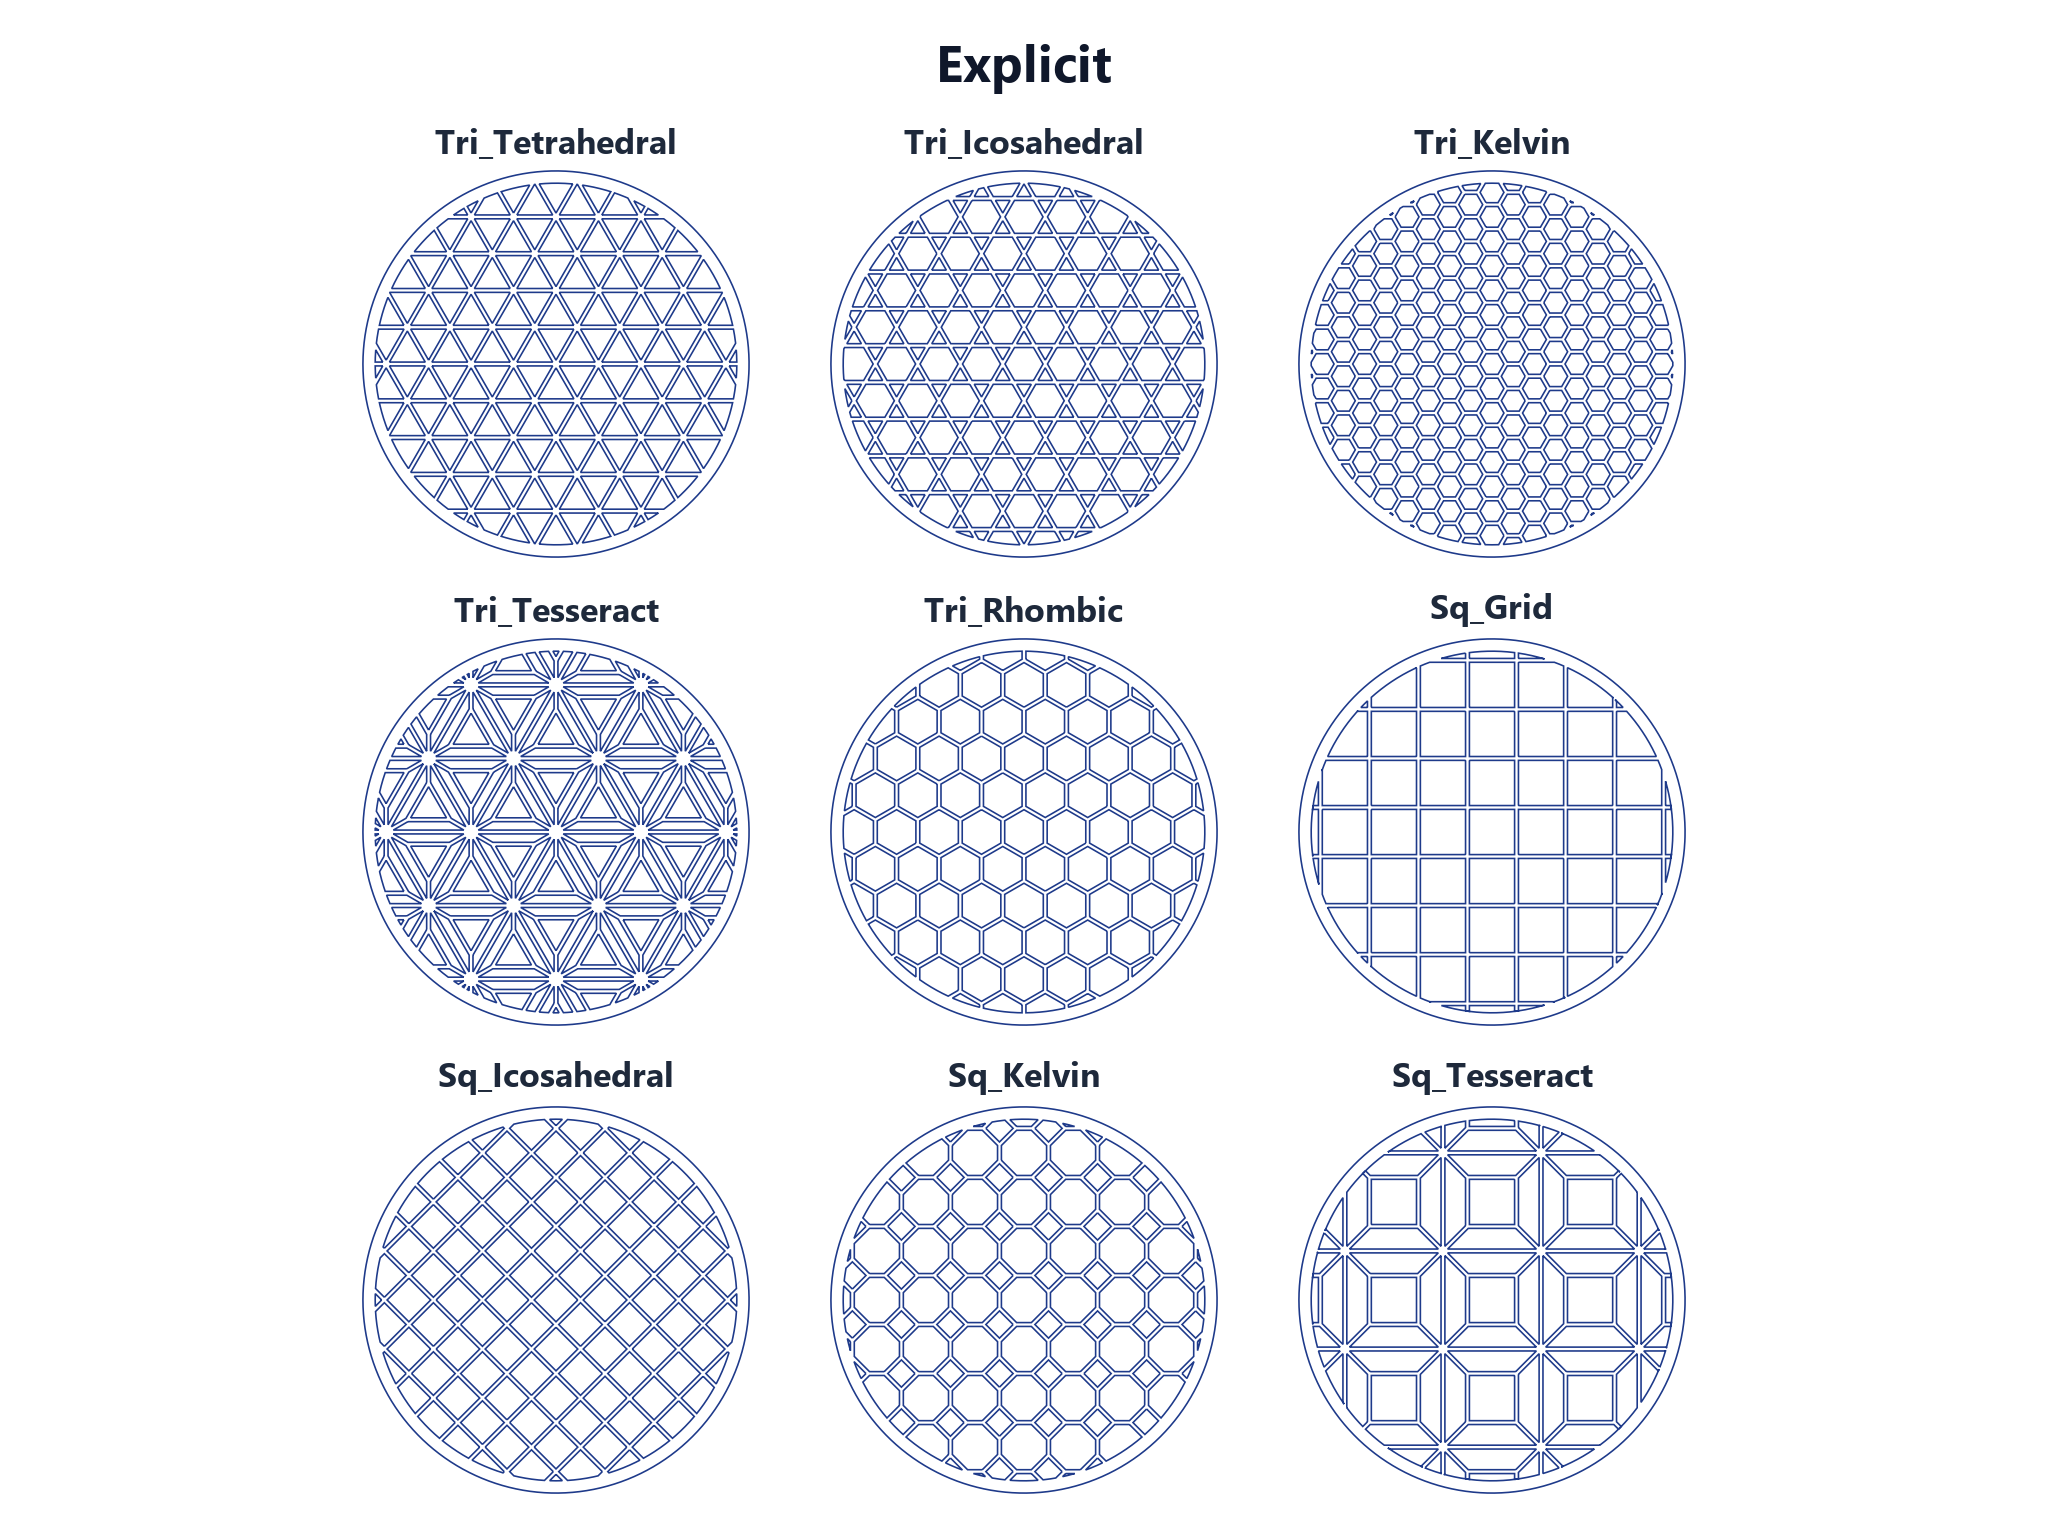
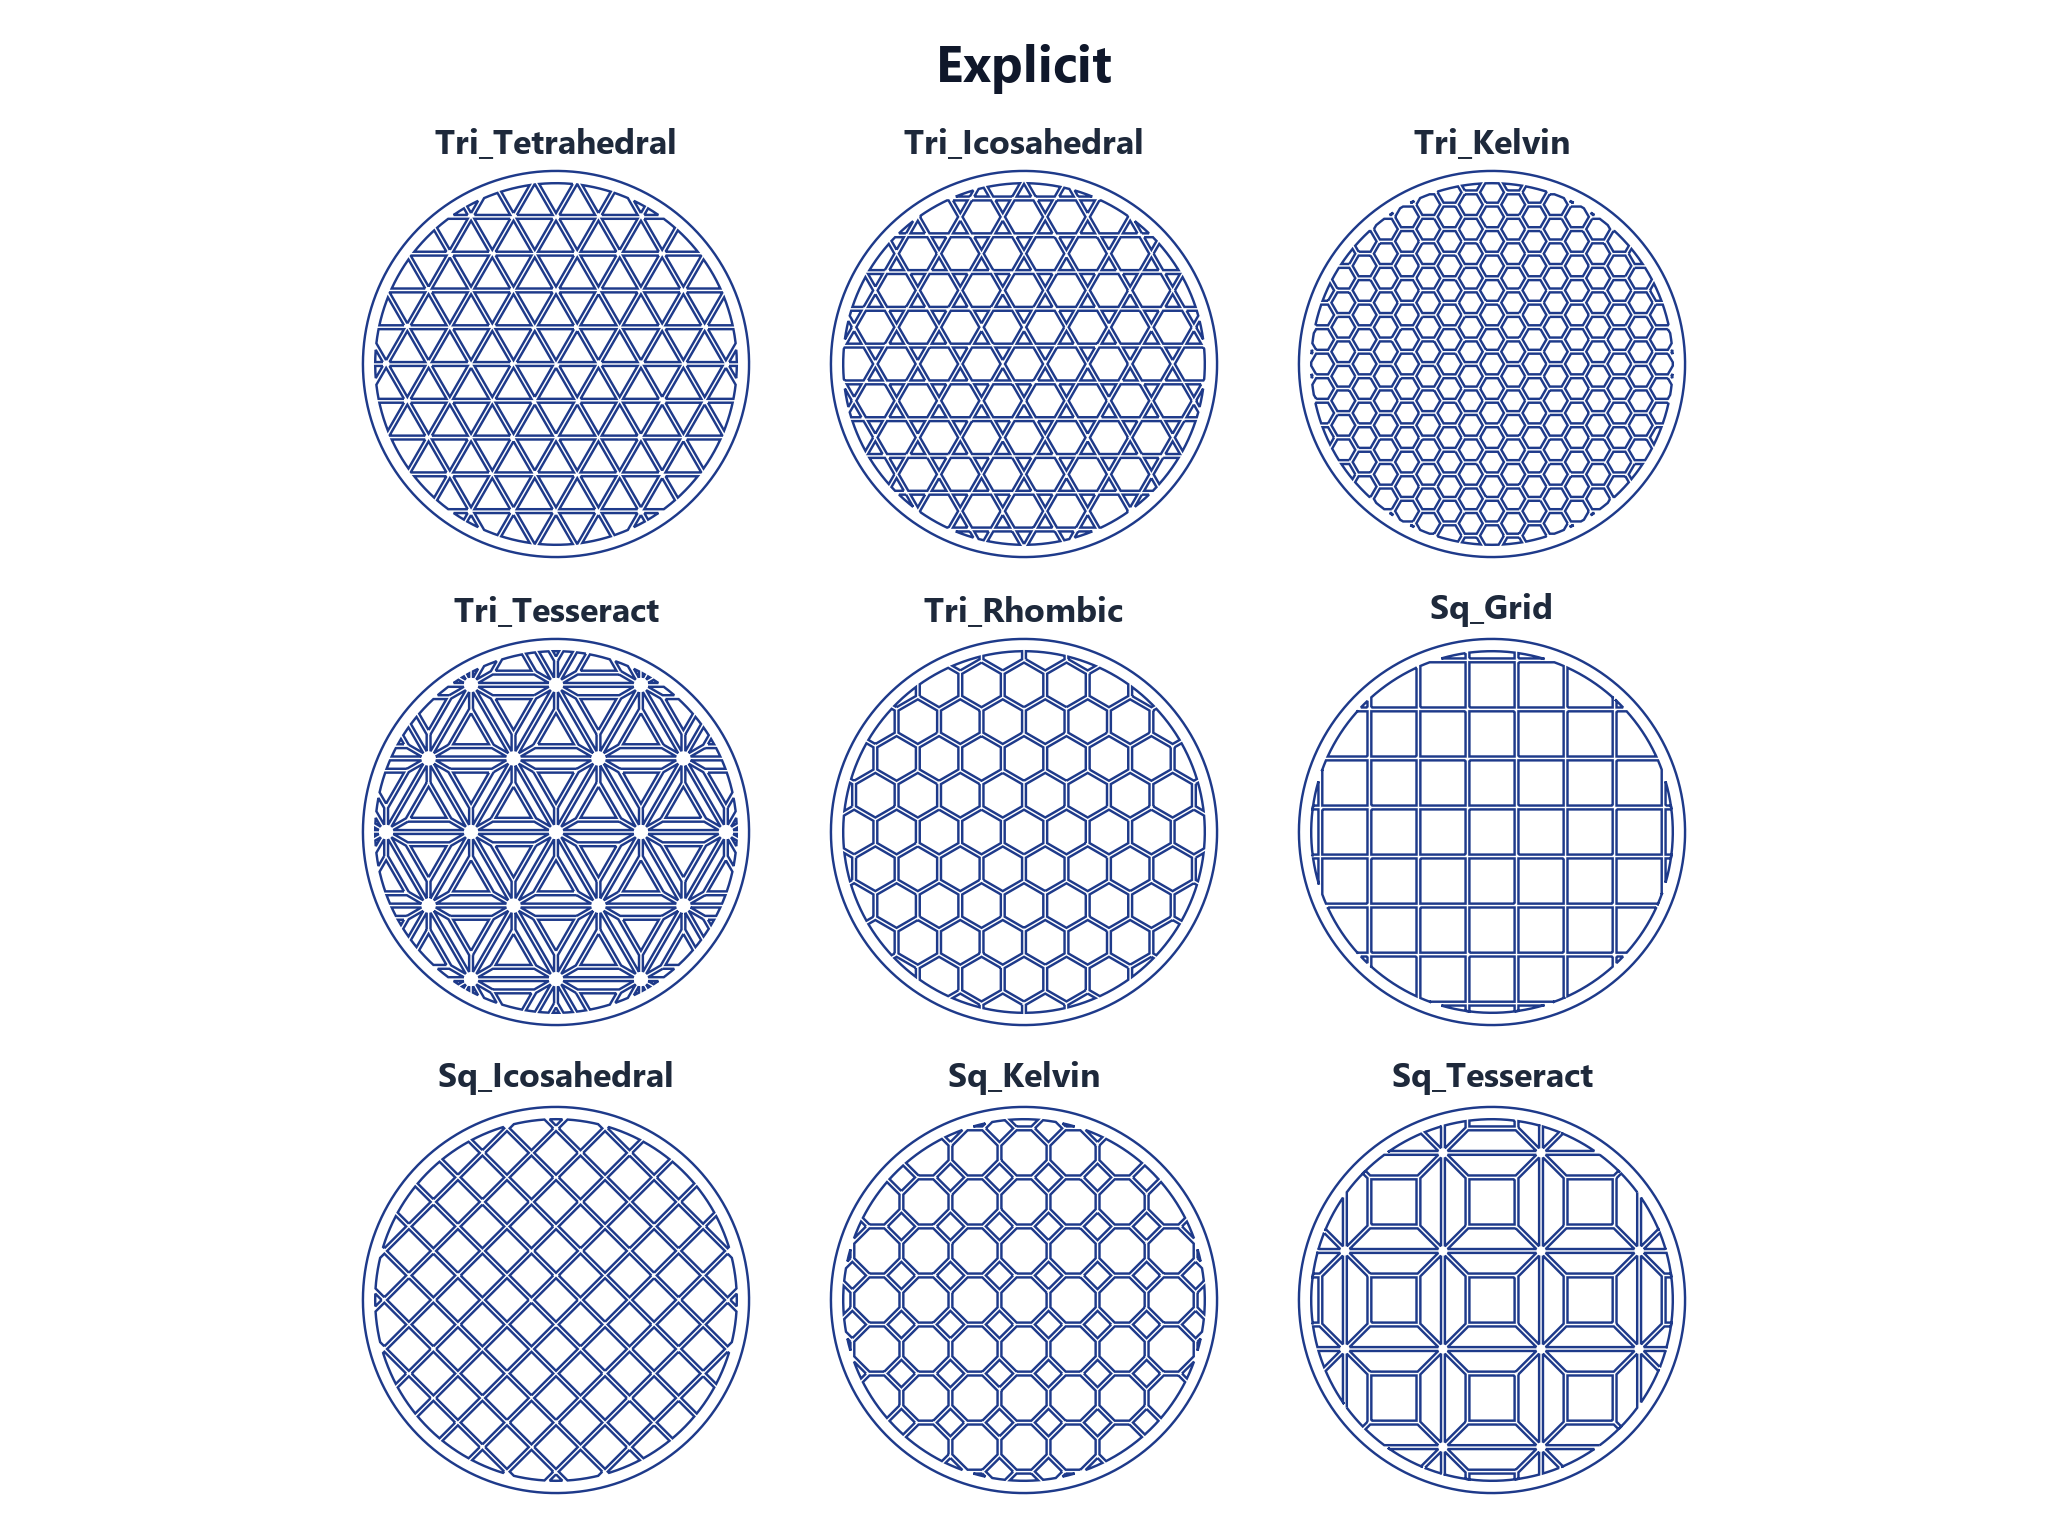
feat(coasters): increase blue outline linewidth to 1.8

diff --git a/scripts/coasters/generate_deliverable_figures.py b/scripts/coasters/generate_deliverable_figures.py
@@ -484,7 +484,7 @@ def render_polygon_to_image(poly, render_dim=750, color_hex="#141416"):
     return img
 
 
-def render_polygon_outline_to_image(poly, render_dim=482, color_hex="#1e3a8a", linewidth=1.2):
+def render_polygon_outline_to_image(poly, render_dim=482, color_hex="#1e3a8a", linewidth=1.8):
     """Render polygon with hollow interior and crisp #1e3a8a outlines matching original style."""
     fig, ax = plt.subplots(figsize=(4, 4), dpi=render_dim / 4.0)
     fig.patch.set_facecolor("none")
@@ -633,9 +633,9 @@ def save_all_variants(
     canvas_blue.save(out_blue, quality=95)
     print(f"  Saved (Blue):    {out_blue}")
 
-    # 3. Blue Outline variant (#1e3a8a, original outline style)
+    # 3. Blue Outline variant (#1e3a8a, original outline style with slightly thicker lines)
     outline_items = [
-        (label, render_polygon_outline_to_image(poly, coaster_size_px, "#1e3a8a", linewidth=1.2))
+        (label, render_polygon_outline_to_image(poly, coaster_size_px, "#1e3a8a", linewidth=1.8))
         for label, poly in poly_items
     ]
     canvas_outline = compose_deliverable_canvas(
